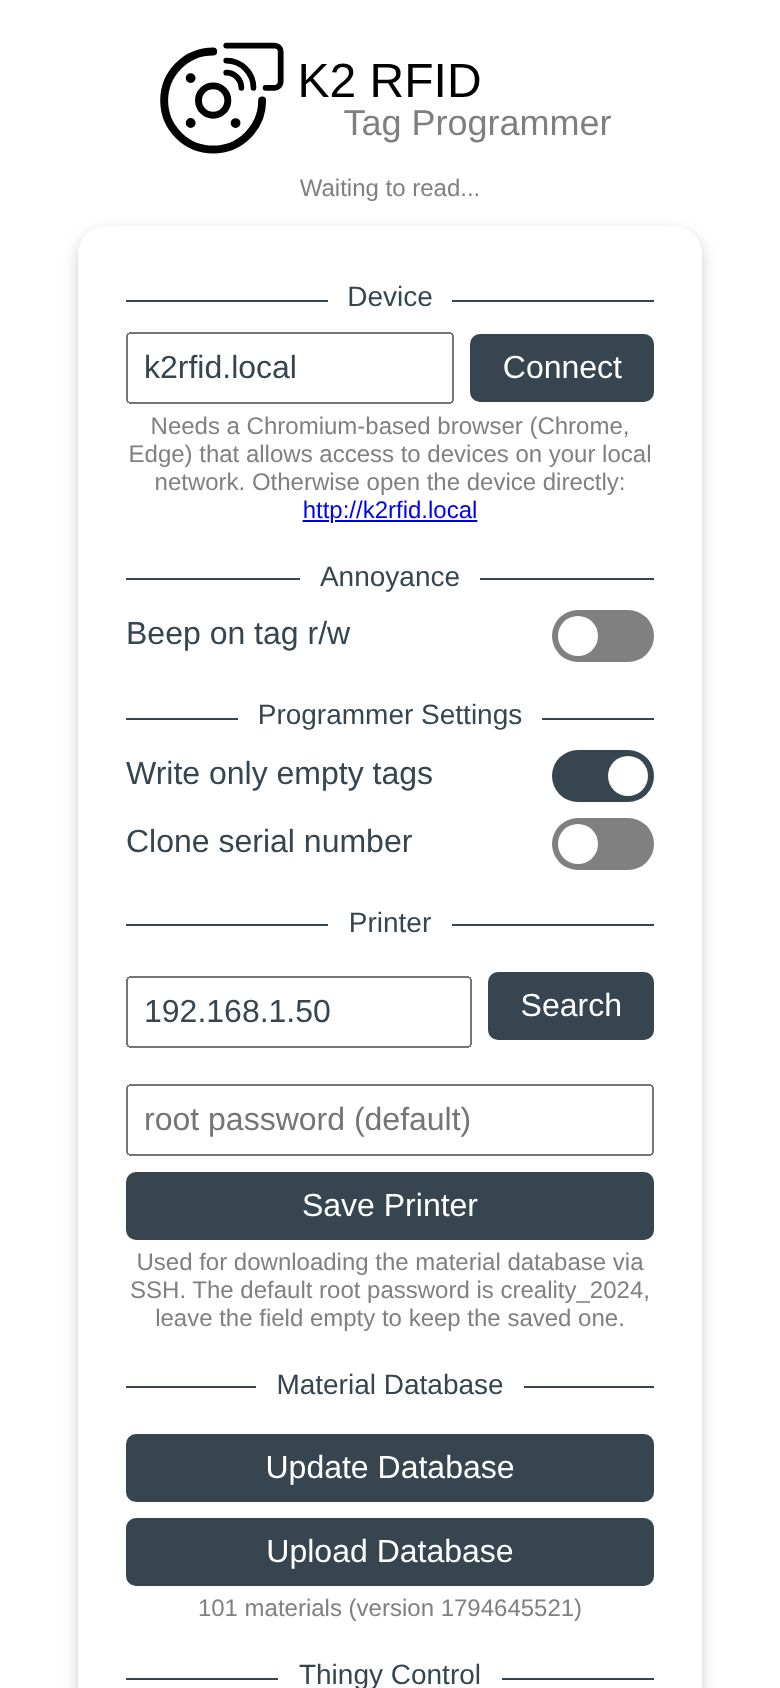
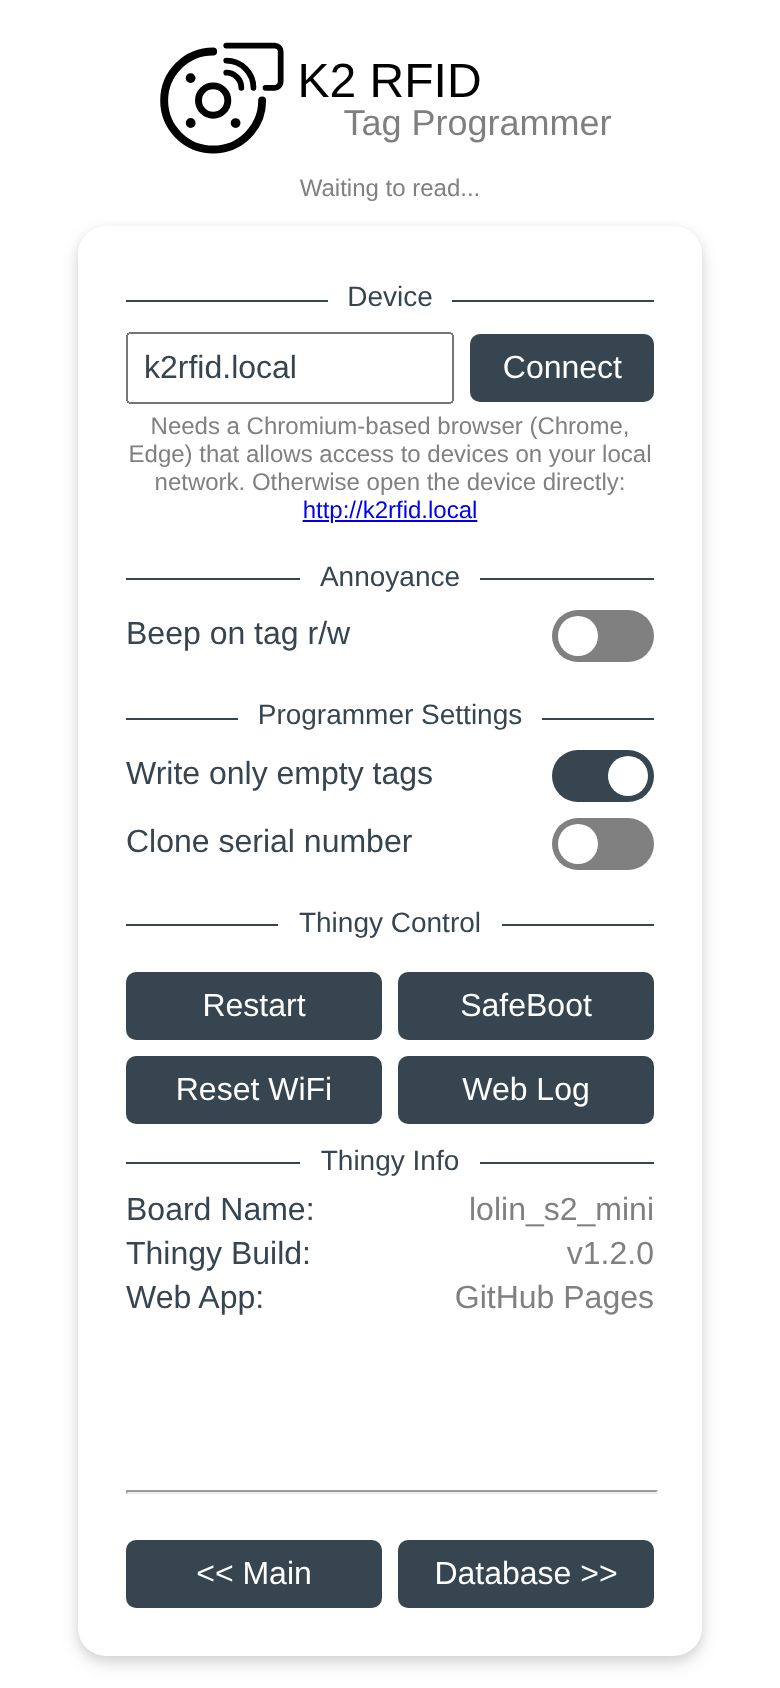
Web app: Web Log button, every page fits on one screen
- Split the long settings view into two pages: Settings (switches, thingy
  control, info) and Database (printer, update/upload database); navigation
  Main <-> Settings <-> Database in the footer
- New 'Web Log' button in the settings opens /weblog of the thingy
- Compact layout for low screens, so no page needs scrolling (checked from
  320x568 up to desktop sizes, embedded and GitHub Pages build)
- README and screenshots updated

Claude-Session: https://claude.ai/code/session_01S2cH3tUz4spVXx57XSCNAR

Changed region(s): [[0.1231, 0.5237, 0.8615, 1.0]]

diff --git a/web/index.html b/web/index.html
@@ -63,7 +63,7 @@
                 autocapitalize="off" spellcheck="false" aria-label="Device address" />
               <button type="submit" class="narrow">Connect</button>
             </form>
-            <p class="hint">
+            <p class="hint optional-2">
               Needs a Chromium-based browser (Chrome, Edge) that allows access to devices on your local network.
               Otherwise open the device directly: <a id="device-direct-link" href="http://k2rfid.local/">http://k2rfid.local</a>
             </p>
@@ -85,32 +85,15 @@
             <input id="clone" type="checkbox" class="switch" data-needs-connection disabled />
           </label>
 
-          <h2><span>Printer</span></h2>
-          <form id="printer-form">
-            <div class="row form-row">
-              <input id="printer-host" type="text" placeholder="Printer IP address" autocomplete="off"
-                autocapitalize="off" spellcheck="false" aria-label="Printer address" />
-              <button id="printer-search" type="button" class="narrow" data-needs-connection disabled>Search</button>
-            </div>
-            <input id="printer-password" type="password" autocomplete="off" aria-label="Root password of the printer"
-              placeholder="root password" />
-            <button type="submit" data-needs-connection disabled>Save Printer</button>
-          </form>
-          <p id="printer-info" class="hint">
-            Used for downloading the material database via SSH. The default root password is creality_2024,
-            leave the field empty to keep the saved one.
-          </p>
-
-          <h2><span>Material Database</span></h2>
-          <button id="db-from-printer" data-needs-connection disabled>Update Database</button>
-          <button id="db-from-file" data-needs-connection disabled>Upload Database</button>
-          <input id="db-file" type="file" accept=".json,application/json" hidden />
-          <p id="db-info" class="hint"></p>
-
           <h2><span>Thingy Control</span></h2>
-          <button data-action="/api/system/restart" data-needs-connection disabled>Restart Thingy</button>
-          <button data-action="/api/system/clearwifi" data-needs-connection disabled>Reset WiFi credentials</button>
-          <button data-action="/api/system/safeboot" data-needs-connection disabled>Enter SafeBoot</button>
+          <div class="row tight">
+            <button data-action="/api/system/restart" data-needs-connection disabled>Restart</button>
+            <button data-action="/api/system/safeboot" data-needs-connection disabled>SafeBoot</button>
+          </div>
+          <div class="row tight">
+            <button data-action="/api/system/clearwifi" data-needs-connection disabled>Reset WiFi</button>
+            <button id="open-weblog" type="button">Web Log</button>
+          </div>
 
           <h2 class="optional-2"><span>Thingy Info</span></h2>
           <dl class="info">
@@ -124,6 +107,31 @@
           <a id="other-app-link" class="hint" hidden></a>
         </section>
 
+        <!-- material database view -->
+        <section id="view-database" class="view" hidden>
+          <h2><span>Printer</span></h2>
+          <form id="printer-form">
+            <div class="row form-row">
+              <input id="printer-host" type="text" placeholder="Printer IP address" autocomplete="off"
+                autocapitalize="off" spellcheck="false" aria-label="Printer address" />
+              <button id="printer-search" type="button" class="narrow" data-needs-connection disabled>Search</button>
+            </div>
+            <input id="printer-password" type="password" autocomplete="off" aria-label="Root password of the printer"
+              placeholder="root password" />
+            <button type="submit" data-needs-connection disabled>Save Printer</button>
+          </form>
+          <p id="printer-info" class="hint optional-2">
+            Used for downloading the material database via SSH. The default root password is creality_2024,
+            leave the field empty to keep the saved one.
+          </p>
+
+          <h2><span>Material Database</span></h2>
+          <button id="db-from-printer" data-needs-connection disabled>Update Database</button>
+          <button id="db-from-file" data-needs-connection disabled>Upload Database</button>
+          <input id="db-file" type="file" accept=".json,application/json" hidden />
+          <p id="db-info" class="hint"></p>
+        </section>
+
         <!-- progress / result of a long running operation -->
         <section id="view-result" class="view centered" hidden>
           <div id="result-icon" class="result-icon"><div class="spinner"></div></div>
@@ -132,8 +140,10 @@
 
         <footer id="nav" class="nav">
           <hr />
-          <button id="show-main" hidden>&lt;&lt; Main</button>
-          <button id="show-settings">Settings &gt;&gt;</button>
+          <div class="row tight">
+            <button id="nav-back" hidden></button>
+            <button id="nav-next"></button>
+          </div>
         </footer>
       </main>
     </div>

diff --git a/web/src/main.js b/web/src/main.js
@@ -36,16 +36,31 @@ let spool = { ...DEFAULT_SPOOL, ...load('spool', {}) }
 // views
 // ---------------------------------------------------------------------------
 
+// the views are pages in a row: main <-> settings <-> database
+const PAGES = ['main', 'settings', 'database']
+const PAGE_TITLES = { main: 'Main', settings: 'Settings', database: 'Database' }
+let currentPage = 'main'
+
 function showView(name) {
-  for (const view of ['main', 'settings', 'result']) $(`view-${view}`).hidden = view !== name
+  for (const view of [...PAGES, 'result']) $(`view-${view}`).hidden = view !== name
   $('nav').hidden = name === 'result'
-  $('show-main').hidden = name !== 'settings'
-  $('show-settings').hidden = name !== 'main'
-  if (name !== 'result') updateStatus()
+  if (name === 'result') return
+
+  currentPage = name
+  const index = PAGES.indexOf(name)
+  for (const [id, target] of [['nav-back', PAGES[index - 1]], ['nav-next', PAGES[index + 1]]]) {
+    const button = $(id)
+    button.hidden = !target
+    if (!target) continue
+    button.textContent = id === 'nav-back' ? `<< ${PAGE_TITLES[target]}` : `${PAGE_TITLES[target]} >>`
+    button.onclick = () => showView(target)
+  }
+  updateStatus()
 }
 
 // show the progress view while running a long operation, then the outcome
-async function runWithProgress(message, task, { returnTo = 'settings', delay = 5000 } = {}) {
+// (and return to the page it was started from, unless returnTo says otherwise)
+async function runWithProgress(message, task, { returnTo = currentPage, delay = 5000 } = {}) {
   const icon = $('result-icon')
   const text = $('result-text')
   icon.innerHTML = '<div class="spinner"></div>'
@@ -322,8 +337,8 @@ const handlers = {
 // ---------------------------------------------------------------------------
 
 function bindUi() {
-  $('show-main').onclick = () => showView('main')
-  $('show-settings').onclick = () => showView('settings')
+  // log of the thingy (hex dumps of the tags read, ...)
+  $('open-weblog').onclick = () => window.open(device.url('/weblog'), '_blank', 'noopener')
 
   $('color').oninput = (e) => ($('color-text').textContent = e.target.value.toUpperCase())
   $('color').onchange = (e) => setSpool({ color: e.target.value })

diff --git a/web/src/style.css b/web/src/style.css
@@ -115,6 +115,14 @@ hr {
   min-width: 0;
 }
 
+.row.tight {
+  gap: 8px;
+}
+
+.row.tight button {
+  margin: 8px 0 0;
+}
+
 .row > .narrow {
   flex: 0 0 auto;
   width: auto;
@@ -437,5 +445,68 @@ input[type="color"]::-moz-color-swatch {
 @media (max-height: 660px) {
   .optional-3 {
     display: none;
+  }
+}
+
+/* compact layout for low screens, so that every page fits without scrolling */
+@media (max-height: 680px) {
+  .logo {
+    height: 54px;
+    width: 180px;
+    margin-top: 6px;
+  }
+
+  .status {
+    margin-bottom: 6px;
+  }
+
+  .card {
+    padding: 12px 20px;
+    margin-bottom: 8px;
+  }
+
+  h2 {
+    margin: 10px auto;
+  }
+
+  hr {
+    margin: 6px auto 4px;
+  }
+
+  button,
+  .row.tight button {
+    padding: 6px;
+    margin-top: 6px;
+  }
+
+  .row button {
+    margin: 6px 0 8px;
+  }
+
+  .value-text {
+    margin: 6px auto;
+  }
+
+  .switch-row {
+    margin-bottom: 4px;
+  }
+
+  select,
+  input[type="text"] {
+    margin: 4px 0;
+  }
+
+  #printer-password {
+    margin-top: 6px;
+    padding: 5px;
+  }
+
+  .form-row input[type="text"],
+  form.row input[type="text"] {
+    padding: 5px;
+  }
+
+  .hint {
+    margin: 2px 0 4px;
   }
 }

diff --git a/README.md b/README.md
@@ -65,12 +65,12 @@ After writing, the programmer re-authenticates with the tag's (new) key, reads t
 
 ### Future Materials
 
-As of now, a fixed set of materials (defined by the K2 Plus's firmware) is known to the programmer. You can update the list in the settings in two ways:
+As of now, a fixed set of materials (defined by the K2 Plus's firmware) is known to the programmer. You can update the list on the `Database` page (`Settings >>`, then `Database >>`) in two ways:
 
 - `Update Database`: The programmer logs into your printer via SSH (as `root`), downloads its material database (`/mnt/UDISK/creality/userdata/box/material_database.json`, which also contains your custom materials) and saves it. The printer compresses the file before sending (`gzip`), so only ~25 KB are transferred and stored. If that fails, it falls back to the default database older printer firmware provides via http (`http://PRINTER_IP/downloads/defData/material_database.json`). No warranty that future firmware updates might break this behaviour...
 - `Upload Database`: Select a `material_database.json` file from your computer or phone. The file is checked, compressed in your browser and saved onto the programmer.
 
-The printer used by `Update Database` is set in the `Printer` section of the settings:
+The printer used by `Update Database` is set in the `Printer` section of the same page:
 
 - Enter the printer's IP address, or hit `Search` to find a K2, K2 Pro, K2 Plus or Hi on your local network (the result is saved right away).
 - Enter the root password of your printer, if it isn't the default `creality_2024`. Leave the field empty to keep the saved password.
@@ -91,6 +91,14 @@ scp -O root@PRINTER_IP:/mnt/UDISK/creality/userdata/box/material_database.json .
 The `-O` option makes scp use the legacy SCP protocol, as the printer has no SFTP server (without it, scp fails with `sftp-server: not found`).
 
 This file is also the one containing custom materials you have added to your printer.
+
+<p align="center">
+    <img src="assets/doc/Screenshot_Database.jpeg" alt="screenshot database page" style="width:50%; height:auto;" >
+</p>
+
+### Settings
+
+The web app has three pages (`Main`, `Settings` and `Database`), each of them fits on one screen without scrolling - on small screens the layout gets more compact and less important texts are hidden. The `Settings` page holds the switches for the beeper, for writing only empty tags and for cloning the serial number, and the buttons to restart the thingy, enter SafeBoot (for firmware updates), reset the WiFi credentials and open the web log.
 
 <p align="center">
     <img src="assets/doc/Screenshot_Settings.jpeg" alt="screenshot settings" style="width:50%; height:auto;" >
@@ -158,7 +166,7 @@ On boards with an onboard mono-color LED:
 
 ## Web logging
 
-Even though there is no button for it, if you open k2rfid.local/weblog, you'll see a logging window. For every tag being read it will show a hex and ascii dump of the data on the tag.
+Hit the `Web Log` button in the settings (or open k2rfid.local/weblog) and you'll see a logging window. For every tag being read it will show a hex and ascii dump of the data on the tag.
 
 <p align="center">
     <img src="assets/doc/screenshot_weblog.jpeg" alt="screenshot weblog" style="width:85%; height:auto;" >
